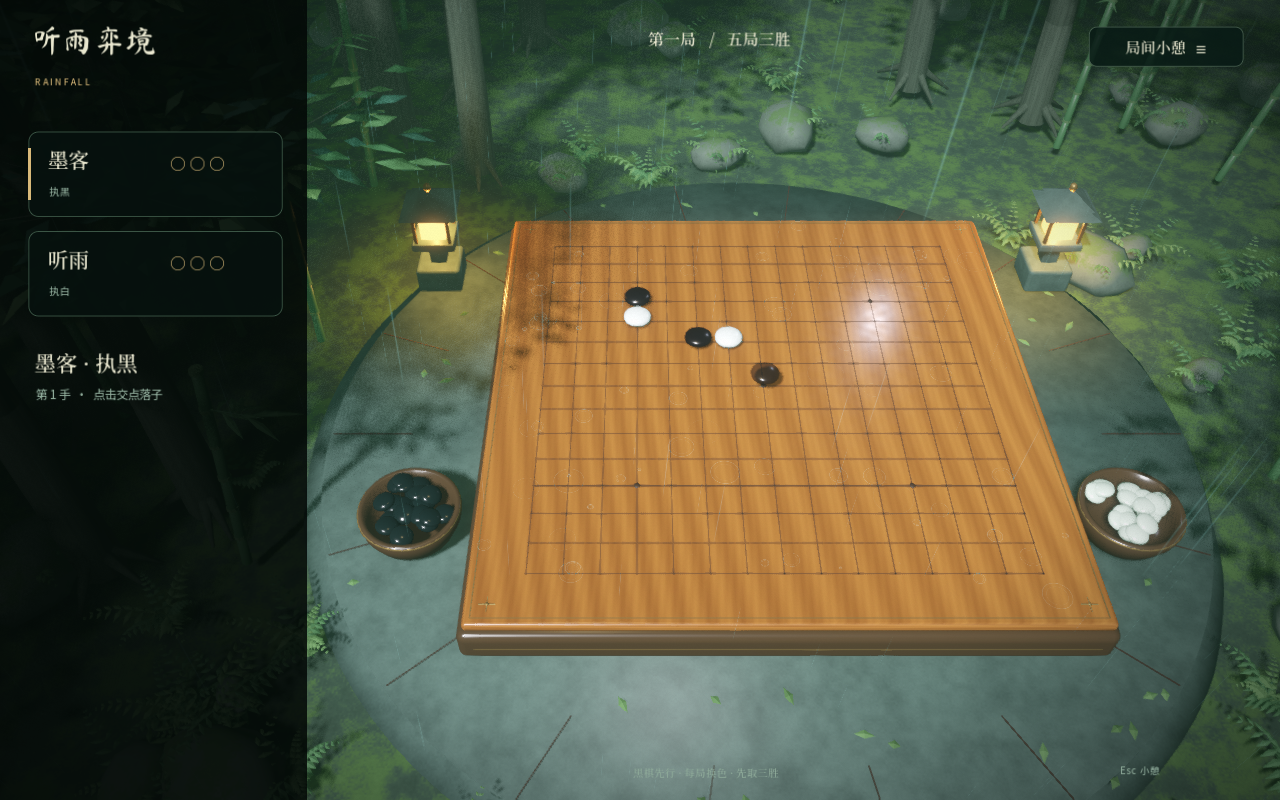
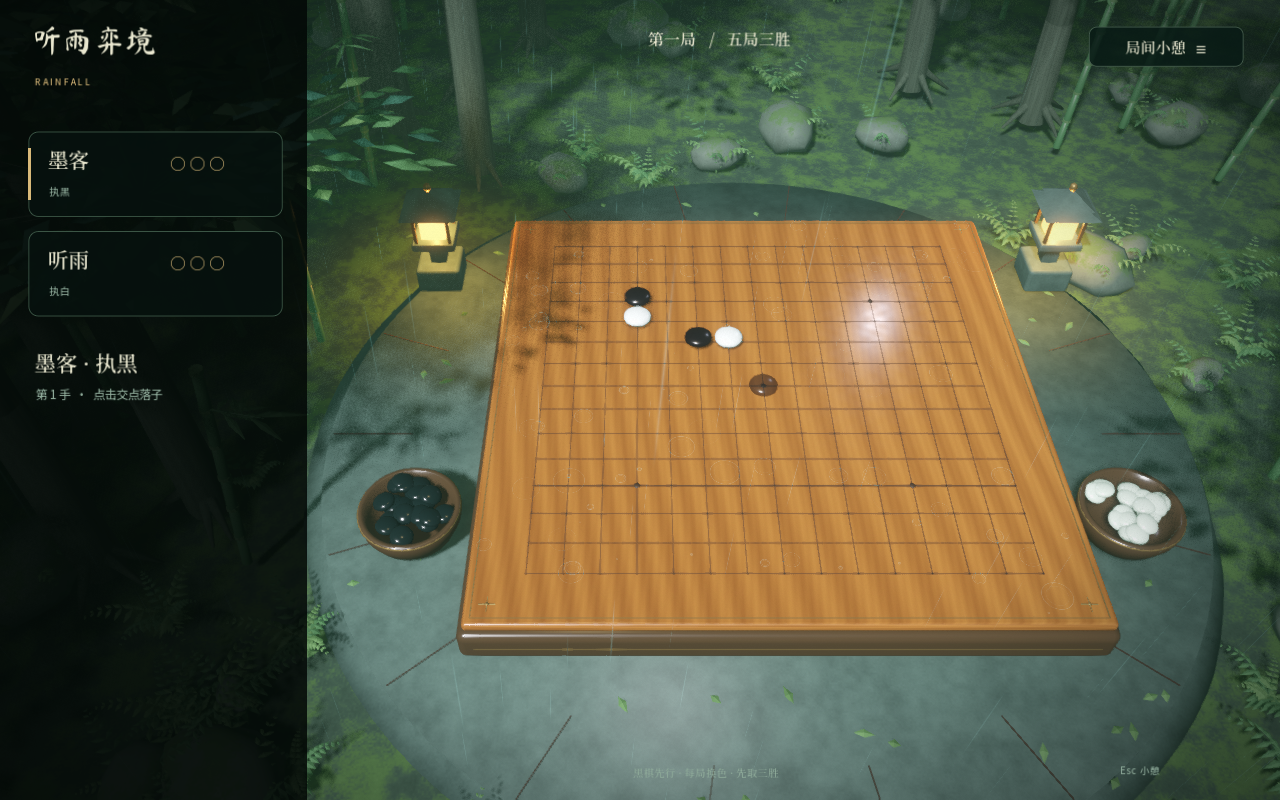
fix: align hover stone with the cursor target

diff --git a/README.md b/README.md
@@ -2,7 +2,7 @@
 
 雨落松间，棋起万象。使用 **Godot + Blender** 制作的本地双人 3D 五子棋，包含雨林棋境、黑白棋子专属演出和三种隐藏技法。
 
-当前版本 **2.5.0**。运行与导出已在 **macOS / Apple Silicon、Godot 4.7.2、Forward+ / Metal** 上验证；其他平台尚未验证。两位玩家共用一台电脑和鼠标。
+当前版本 **2.5.1**。运行与导出已在 **macOS / Apple Silicon、Godot 4.7.2、Forward+ / Metal** 上验证；其他平台尚未验证。两位玩家共用一台电脑和鼠标。
 
 ![雨中棋盘实机画面](docs/images/gameplay.png)
 
@@ -29,7 +29,7 @@ GODOT_BIN=/Applications/Godot.app/Contents/MacOS/Godot
 
 输入两位玩家的名字，选择「入林 · 开局」。双方轮流点击空交点落子。
 
-- 鼠标移到空交点时，显示当前棋色的**悬浮棋子**；移到已有棋子、离开棋盘或打开菜单时隐藏。双方都可使用这个落点预览，关闭特效后仍然保留。
+- 鼠标移到空交点时，显示当前棋色的**半透明预览棋子**。视觉中心对齐吸附交点，随鼠标立即更新，不再额外悬空或上下浮动；移到已有棋子、离开棋盘或打开菜单时隐藏。双方都可使用，关闭特效后仍然保留。
 - **15×15 棋盘，黑棋先手**，无禁手；任一方向五子或长连计胜。
 - **五局三胜**，每局决出胜负后交换黑白，先得三胜即结束比赛。
 - 和棋重赛当前局，保持本局颜色和局数。
@@ -113,11 +113,14 @@ mkdir -p builds
 # Dummy 仍经过游戏混音总线，但不向扬声器输出测试声音。
 "$GODOT_BIN" --path . --audio-driver Dummy -- --verify --settings-check
 "$GODOT_BIN" --path . --audio-driver Dummy -- --verify --feedback-check
+"$GODOT_BIN" --path . --audio-driver Dummy -- --verify --hover-check
 "$GODOT_BIN" --path . --audio-driver Dummy -- --verify --effect-priority
 "$GODOT_BIN" --path . --audio-driver Dummy -- --verify --audio-check
 ```
 
 `--verify` 使用独立内存棋局，不覆盖玩家存档或声音设置；测试目录自动建立。结果、截图和录音写入 `verification/`，不会提交到 Git 或打包进游戏。
+
+`--hover-check` 专门检查预览中心对齐、即时跟随、落点一致及隐藏条件，结果写入包含完整补丁版本号的目录（当前为 `verification/v2.5.1/`）。
 
 macOS 后台自动回放可追加 `--isolated-replay`：固定大小的测试窗口保持绘制，忽略桌面真实鼠标与焦点变化，测试脚本仍走游戏输入与控件处理。失焦取消由回放显式触发同一处理函数。普通游戏不受该测试选项影响。
 

diff --git a/VERIFICATION.md b/VERIFICATION.md
@@ -1,8 +1,16 @@
-# 听雨弈境 2.5.0 验证记录
+# 听雨弈境 2.5.1 验证记录
 
 验证日期：2026-09-12。环境：macOS、Apple M1 / 16 GB、Godot 4.7.2、Forward+ / Metal。其他操作系统及显卡尚未验证。
 
-## 当前规则与设置
+## 2.5.1 落点预览修正
+
+本次调整预览定位与鼠标移动时的更新，移除额外抬高和周期浮动，并补偿模型中心高度在倾斜视角下造成的屏幕偏移。
+
+`--verify --isolated-replay --hover-check` 完成 **59 项检查，0 失败**。两种棋色、1280×800 与 1920×1200 两种窗口尺寸、中央及四角共 20 个投影样本，预览包围盒中心距目标交点最大约 **0.639 像素**。同时确认即时跟随、静止不漂移、点击落在预览交点、换色、菜单和占位隐藏、离开窗口、关闭特效后仍可预览。实机截图与报告位于 `verification/v2.5.1/`。
+
+以下为 2.5.0 已完成的功能和音频验证基线；本次未重复运行全部技能与音频专项。
+
+## 2.5.0 规则与设置基线
 
 | 检查 | 结果 | 可复现入口 |
 | --- | --- | --- |
@@ -45,7 +53,7 @@
 
 ## 本机应用与数据
 
-2.5.0 已完成 macOS 导出和本机临时签名校验，安装版与导出包的 PCK 摘要相同。安装版已正常启动并恢复原存档；棋局和设置文件在升级、启动后均与更新前摘要一致。记录位于 `verification/v2.5/installation.json`，旧应用另留本地备份。
+2.5.1 已完成 macOS 导出和本机临时签名校验，安装版与导出包的 PCK 摘要相同。安装版已正常启动并恢复原存档，使用实际鼠标定位确认棋子预览对齐指针热点。棋局和设置文件在升级、启动后均与更新前摘要一致。记录位于 `verification/v2.5.1/installation.json`，旧应用另留本地备份。
 
 所有回放使用 `--verify`，不覆盖正常玩家的棋局；设置持久化检查写入测试目录。`verification/` 中的录音、测试配置、截图和本地发布记录不提交 Git，也不进入导出应用。仓库保留可复现脚本及选取的 [悬浮棋子](docs/images/gameplay.png)、[设置](docs/images/settings.png)、[震子](docs/images/recoil.png)、[满蓄力](docs/images/charge.png)、[墨黑挽弓](docs/images/bow.png)、[银白月轮](docs/images/moon.png) 截图。
 

diff --git a/DESIGN.md b/DESIGN.md
@@ -1,4 +1,4 @@
-# 听雨弈境 · 2.5 设计约定
+# 听雨弈境 · 2.5.1 设计约定
 
 同一台电脑上的双人 3D 五子棋。雨中松林、薄雾、湿润木棋盘与暖灯构成日常棋境；技能发动时，通过棋子近景、墨烟、银白月轮、冲击波与书法演出表现力量。Blender 源模型与 Godot 工程均随仓库提供。
 
@@ -8,7 +8,7 @@
 - 第一局先手玩家永久拥有优势，换色不改变归属。黑棋使用墨色演出，白棋使用银白演出；另一位玩家没有技能或专属落子特效。
 - 第三局起，优势方普通落子增加分叉闪电和雷鸣，对方棋子短暂离盘并倾转、再落回原来的变换；己方棋子保持不动。按距离稍微错开起落时机，整组只播放一次轻落回声。进入蓄力、拉弓或技能演出时清理普通雷电与震子，避免与大招重叠。
 - HUD 不展示技能说明，也不高亮可触发技能的棋形；交互提示仅保留普通对局信息。
-- 双方鼠标悬浮于空交点时，显示当前棋色的半透明悬浮棋子，作为落点预览。占用交点、菜单、动画、按住手势和窗口外不显示；关闭特效仍保留这项基本操作反馈。
+- 双方鼠标指向空交点时，显示当前棋色的半透明预览棋子。模型视觉中心经相机投影补偿后对齐吸附交点，预览不额外抬高、上下浮动或投射悬空阴影；鼠标移动事件立即更新显示。落子命中仍使用棋盘平面，确保预览和点击选择同一交点。占用交点、菜单、动画、按住手势和窗口外不显示；关闭特效仍保留这项基本操作反馈。
 
 ## 隐藏技能
 
